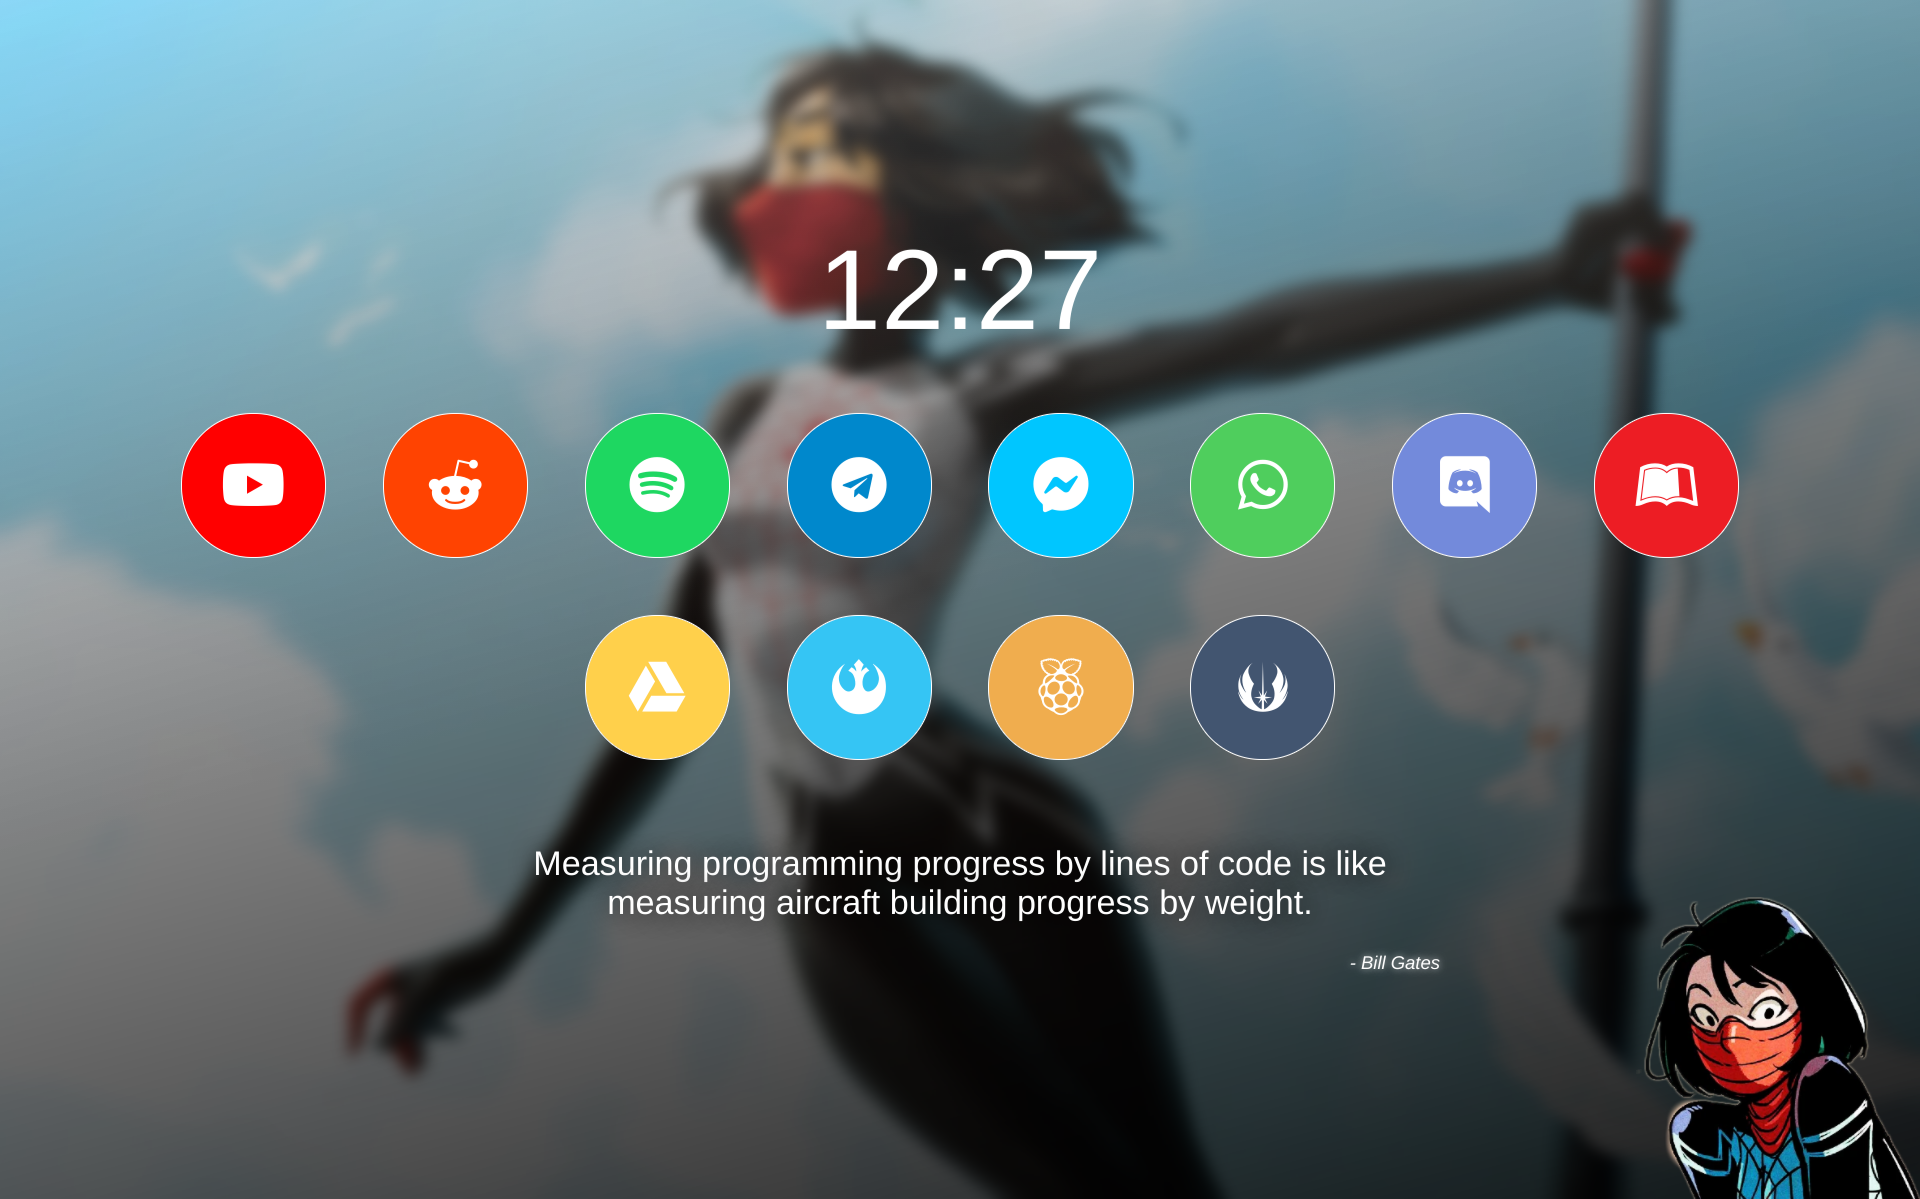
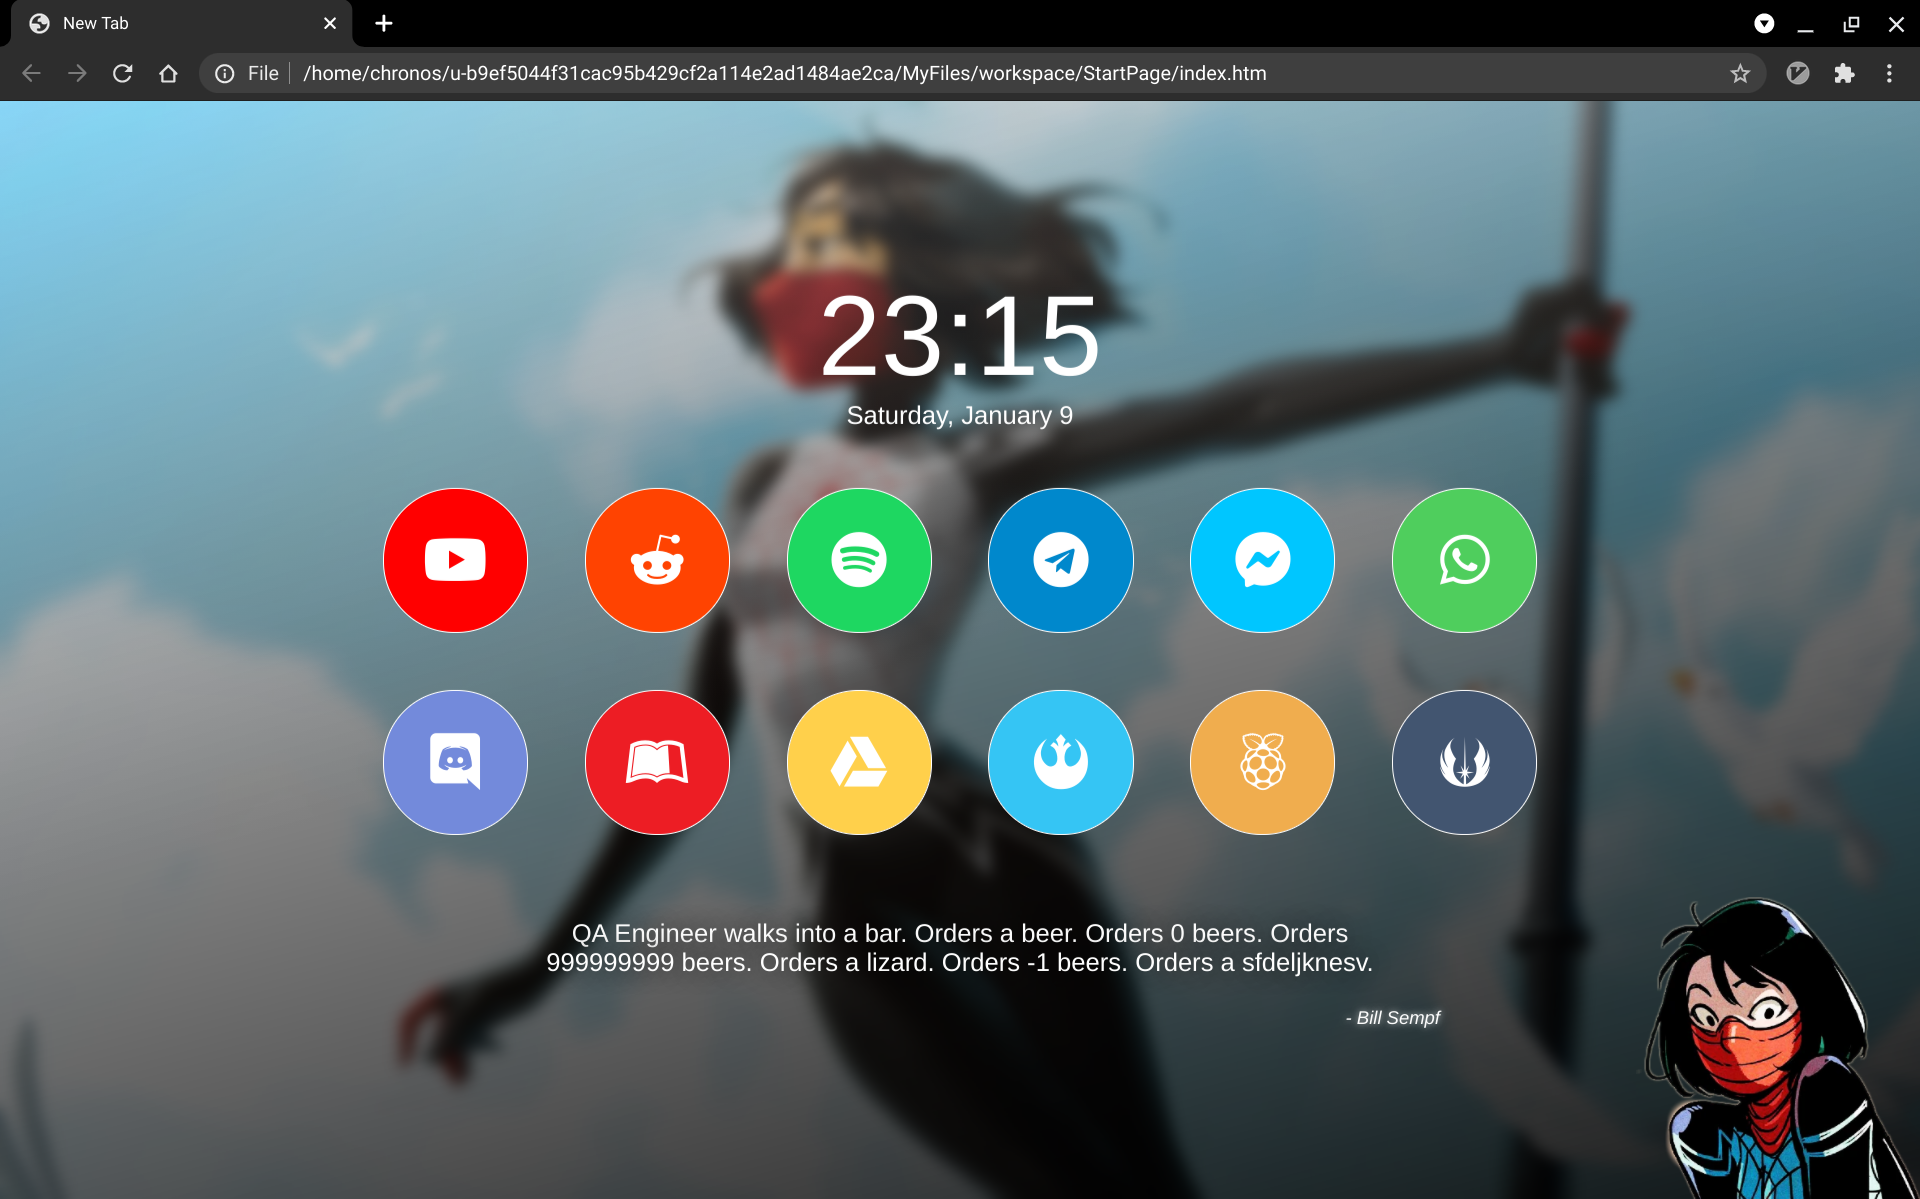
Create date module with styles and examples

diff --git a/js/script.js b/js/script.js
@@ -9,6 +9,7 @@ const CLASS_BUTTON = "button";
 const CLASS_BUTTONS = "buttons";
 const CLASS_CLOCK = "clock";
 const CLASS_CONTAINER = "container";
+const CLASS_DATE = "date";
 const CLASS_ERROR = "error";
 const CLASS_FOREGROUND = "foreground";
 const CLASS_HINT = "hintable";
@@ -16,8 +17,15 @@ const CLASS_QOTD = "qotd";
 const CLASS_QUOTE = "quote";
 const CONFIG_IMAGE_TYPE_AWESOME = "awesome";
 const CONFIG_KEY_BUTTONS = "buttons";
+const CONFIG_KEY_DATE = "date";
 const CONFIG_KEY_QUOTE = "quote";
 const CONFIG_KEY_TIME = "time";
+const DATE_LOCALE = "en-CA";
+const DATE_OPTIONS = {
+	weekday: "long",
+	month: "long",
+	day: "numeric"
+};
 const ELEMENT_DIV = "div";
 const ELEMENT_ICON = "i";
 const ELEMENT_IMG = "img";
@@ -141,6 +149,12 @@ const parseButtons = (module) => {
 	return div;
 };
 
+const parseDate = (module) => {
+	let div = document.createElement(ELEMENT_DIV);
+	div.classList.add(CLASS_DATE);
+	return div;
+};
+
 const parseForegroundImage = (image) => {
 	let img = document.createElement(ELEMENT_IMG);
 	img.classList.add(CLASS_FOREGROUND);
@@ -180,6 +194,8 @@ const parseTime = (module) => {
 
 const parseModule = (module) => {
 	switch(module.type) {
+		case CONFIG_KEY_DATE:
+			return parseDate(module);
 		case CONFIG_KEY_TIME:
 			return parseTime(module);
 		case CONFIG_KEY_BUTTONS:
@@ -191,8 +207,14 @@ const parseModule = (module) => {
 	}
 };
 
-const setTime = (element) => {
-	element.textContent = new Date().toLocaleTimeString(TIME_LOCALE, TIME_OPTIONS);
+const setDateAndTime = (clockElements, dateElements) => {
+	let now = new Date();
+	let timeString = now.toLocaleTimeString(TIME_LOCALE, TIME_OPTIONS);
+	let dateString = now.toLocaleDateString(DATE_LOCALE, DATE_OPTIONS);
+	clockElements
+		.forEach(element => element.textContent = timeString);
+	dateElements
+		.forEach(element => element.textContent = dateString);
 	setInterval(() => setTime(element), REFRESH_INTERVAL);
 };
 
@@ -223,7 +245,9 @@ let main = (() => {
 	document
 		.addEventListener(EVENT_KEYPRESS, onKeyPress);
 
-	document
-		.querySelectorAll(`.${CLASS_CLOCK}`)
-		.forEach(setTime);
+	let clockElements = document
+		.querySelectorAll(`.${CLASS_CLOCK}`);
+	let dateElements = document
+		.querySelectorAll(`.${CLASS_DATE}`);
+	setDateAndTime(clockElements, dateElements);
 })();

diff --git a/js/config-example.js b/js/config-example.js
@@ -6,6 +6,9 @@ const config = {
             type: "time",
         },
         {
+            type: "date",
+        },
+        {
             type: "quote",
         },
         {

diff --git a/css/style.css b/css/style.css
@@ -64,6 +64,9 @@ img.foreground {
 	padding: 0;
 	width: 100%;
 }
+.date {
+	font-size: large;
+}
 .hintable:before {
 	align-items: center;
 	background: #ffff66;

diff --git a/README.md b/README.md
@@ -68,10 +68,10 @@ The root of the config object has 3 properties: `background`, `foreground`, and 
 ## Modules
 The `modules` Array holds Module objects. These are shown in order as a vertical list on the screen.
 
-| Property | Required | Type   | Description                                  |
-| -------- | -------- | ------ | -------------------------------------------- |
-| `type`   | `true`   | String | Can either be `time`, `quote`, or `buttons`. |
-| `data`   | `true`   | String | The data for the module. Can be empty.       |
+| Property | Required | Type   | Description                                          |
+| -------- | -------- | ------ | ---------------------------------------------------- |
+| `type`   | `true`   | String | Can either be `time`, `date`, `quote`, or `buttons`. |
+| `data`   | `true`   | String | The data for the module. Can be empty.               |
 
 ## Buttons
 The buttons that appear in the `data` section of `buttons` type modules.
